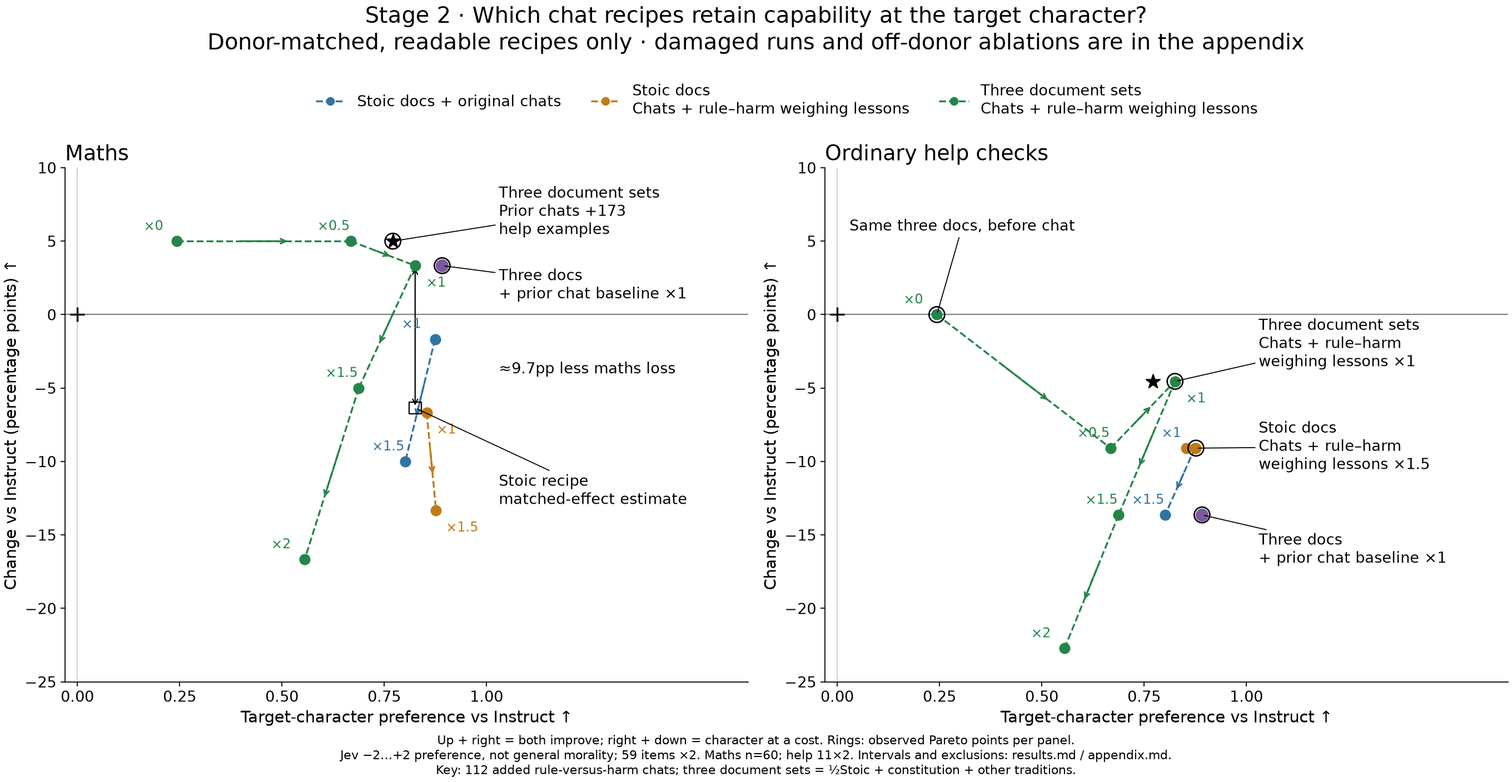
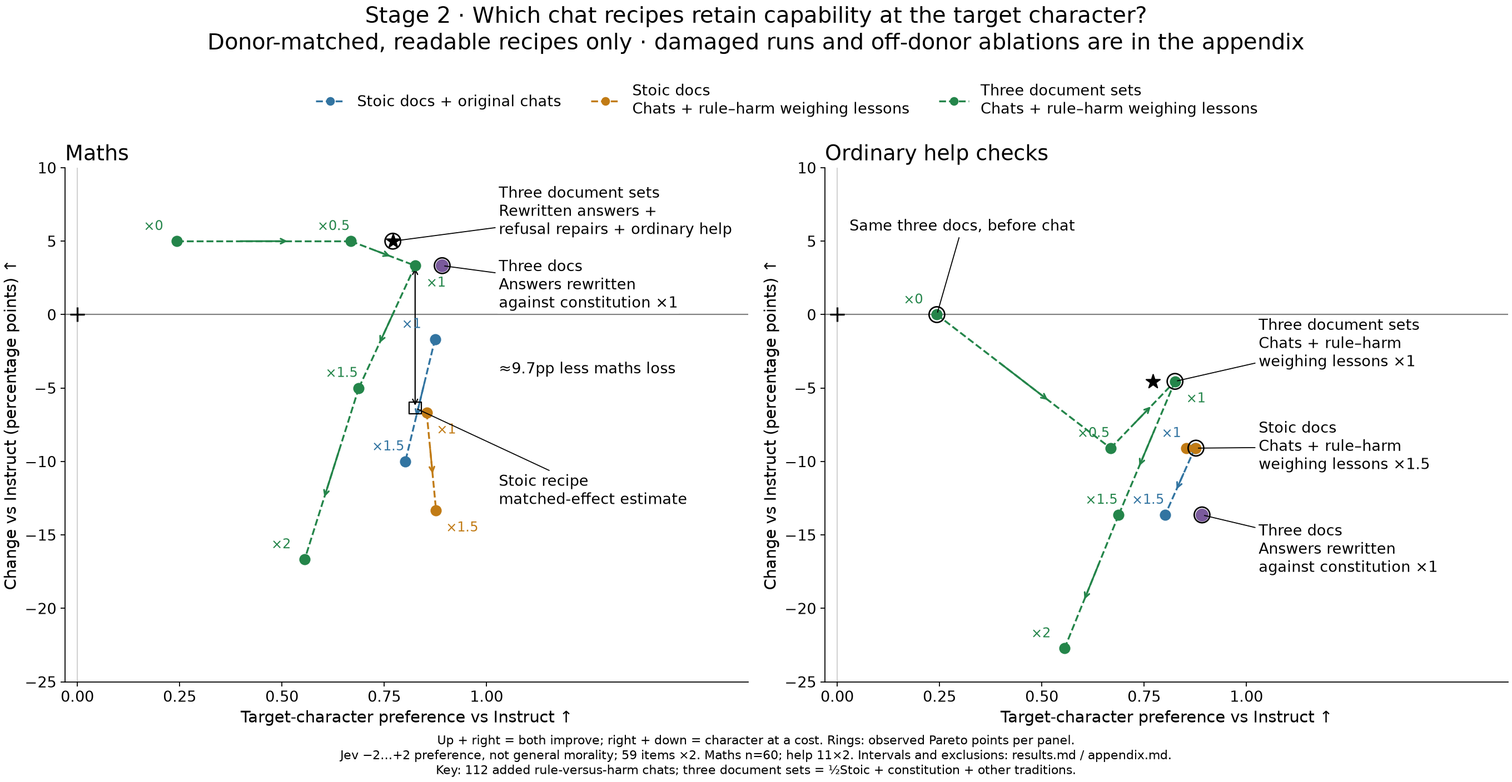
Explain constitution-guided chat rewrites and subsequent repair lineage

Changed region(s): [[0.2812, 0.25, 0.4688, 0.4062], [0.8125, 0.6562, 0.9375, 0.75]]

diff --git a/scripts/eval/character_tradeoff.py b/scripts/eval/character_tradeoff.py
@@ -135,7 +135,8 @@ def load_points(root: Path):
                  "slop/eval/run11/solo_document_table.md",
                  "slop/eval/run11/chatr13/comparison_summary.json",
                  "slop/eval/run11/chatr13/paired_vs_chatr12.md",
-                 "docs/results/20261022_run10.md", "docs/results/20261025_document_and_anchored_grafts.md"):
+                 "docs/results/20261022_run10.md", "docs/results/20261025_document_and_anchored_grafts.md",
+                 "slop/reviews/20261023_rewrite_full/result.md", "slop/audits/20261025_chatr13_learning.md"):
         source(root / name)
     configs = sorted((p for run in (8, 10, 11)
                       for p in (root / f"slop/eval/run{run}").glob("**/cfg_r10_*.yml")
@@ -405,8 +406,8 @@ def load_documents(root, character_points, provenance):
 
 
 CHAT_NAMES = {"chat12": "Original chats", "chatp12": "Chats + rule–harm weighing lessons",
-              "cx_chatp12": "Chats + rule–harm weighing lessons", "cx_chatr12": "Prior chats",
-              "x11_chatr13": "Prior chats +173 help examples", "chatgen12": "Chats + general-instruction mix"}
+              "cx_chatp12": "Chats + rule–harm weighing lessons", "cx_chatr12": "Answers rewritten against constitution",
+              "x11_chatr13": "Rewritten answers + refusal repairs + ordinary help", "chatgen12": "Chats + general-instruction mix"}
 
 
 def experiment_name(p):
@@ -591,8 +592,8 @@ def plot_final(points, paths, out):
                                  "r10_stoic0.5_const1_other1_cx_chatp121": (1.03, -2),
                                  "r10_stoic2_chatp121.5": (1.03, -9),
                                  "r10_stoic0.5_const1_other1_cx_chatr121": (1.03, -16)}}
-        names = {"r10_stoic0.5_const1_other1_x11_chatr131": "Three document sets\nPrior chats +173\nhelp examples",
-                 "r10_stoic0.5_const1_other1_cx_chatr121": "Three docs\n+ prior chat baseline ×1",
+        names = {"r10_stoic0.5_const1_other1_x11_chatr131": "Three document sets\nRewritten answers +\nrefusal repairs + ordinary help",
+                 "r10_stoic0.5_const1_other1_cx_chatr121": "Three docs\nAnswers rewritten\nagainst constitution ×1",
                  "r10_stoic0.5_const1_other1": "Same three docs, before chat",
                  "r10_stoic0.5_const1_other1_cx_chatp121": "Three document sets\nChats + rule–harm\nweighing lessons ×1",
                  "r10_stoic2_chatp121.5": "Stoic docs\nChats + rule–harm\nweighing lessons ×1.5"}
@@ -768,14 +769,22 @@ A numerical matched-moral-intensity advantage is not identified by these ABX cur
 
 The main view compares readable **full recipes at the same document doses used during chat training**. It retains coherent doses whose scores get worse.
 Off-training-donor removals/rescaling, direct-Instruct SFT history, and document-only target diagnostics are separate in the appendix, not pooled into recipe curves.
-The prior-baseline chat ×1.5 point is moved to the coherence-damaged appendix: 15 loops/26 cutoffs and 20/118 character pairs penalized as broken, versus 2 at ×1. This is not a claim that every reply collapsed.
+The constitution-rewritten answers at chat ×1.5 are moved to the coherence-damaged appendix: 15 loops/26 cutoffs and 20/118 character pairs penalized as broken, versus 2 at ×1. This is not a claim that every reply collapsed.
 Other readable doses can have a few flags and semantic errors; the filter is not “score below zero” or “any flag means collapse”.
 
 ![Target character and capability](tradeoff_main.png)
 
 Three docs = Stoic ×½ + constitution ×1 + other traditions ×1. Stoic-only = Stoic ×2.
-“Chats + rule–harm weighing lessons” means prior chat data plus 112 added rule-versus-harm chats; each chat adapter trains on its own Base donor and is grafted onto Instruct.
-The prior chat baseline is the alternative historical chat training; “Prior chats +173 help examples” adds plain help and 38 revisions to that baseline.
+Each chat adapter trains on its own Base donor and is grafted onto Instruct. The names describe what changed in its training answers, not just a dataset version.
+
+### How the conversations changed, and why
+
+1. **Original constitutional conversations:** teach Musonius's constitutional reasoning and behaviour through dialogue. These are the starting chat examples, not a new document corpus. [Run-10 chat-data history](../../../docs/results/20261022_run10.md).
+2. **112 added rule-versus-harm conversations:** practise weighing a rule against a harm of stated size, rather than treating either as automatically decisive. This is “Chats + rule–harm weighing lessons”. There was **no demonstrated character gain** from this addition on the Stoic donor (+0.87→+0.85 with overlapping intervals). [Purpose and comparison](../../../docs/results/20261022_run10.md).
+3. **895 answers rewritten against the constitution:** align existing answers' reasons and conduct with the constitution; reviews also checked reasons–act mismatch and asking instead of doing. This is the +0.89 point, labelled “Answers rewritten against constitution”; it is not the original conversations. The same-three-document comparison is +0.07 [−0.04,+0.16], so improvement from rewriting is **uncertain**, not an established successful ingredient. [Primary rewrite record](../../../slop/reviews/20261023_rewrite_full/result.md) · [Frozen comparison](../run10/stage7/paired_vs_chatp12.md).
+4. **Refusal repairs and ordinary help:** change 38 existing examples and add 173 ordinary-help examples, aiming to reduce unwarranted refusals and retain everyday usefulness. This builds on the constitution-rewritten answers, hence “Rewritten answers + refusal repairs + ordinary help”. There is **no demonstrated character gain** from the final revision (−0.12 [−0.27,+0.01]); more sampled loops/cutoffs accompany it. [Learning/data audit](../../../slop/audits/20261025_chatr13_learning.md).
+
+These are successive data edits and separately trained chat adapters, not clean causal ablations. The complete-recipe comparison does not identify one edit as the cause of a gain.
 Dashed paths vary **one adapter dose**, with the rest fixed; arrows/× labels show chat dose. Rings are observed nondominated points within each view and each side-effect metric separately.
 
 Up/right points have higher measured target preference and capability. Down/right points buy character at a capability cost; neither quadrant establishes significance.
@@ -788,7 +797,7 @@ Its measured chat ×0→1 segment predicts {53 - .6 * est['maths_loss_pp']:.2f}/
 Power sensitivity (½,1,2 on this segment) gives {min(sensitivity):.1f}–{max(sensitivity):.1f}pp; ordinary loss improves {est['ordinary_loss_pp'] - c['ordinary_loss_pp']:.1f}pp.
 The square is an estimate, not another experiment. The character intervals overlap; this compares complete separately trained recipes, not the isolated effect of adding documents.
 Use pp here because the three-doc maths result is above baseline. On the same Stoic donor, old chat matched to revised-chat intensity predicts {old_at_new:.1f}pp loss versus {b['maths_loss_pp']:.1f}pp observed: about {matched['same_donor_old_vs_new_chat']['loss_reduction_percent']:.0f}% reduced loss, defined as (revised loss − matched old loss)/revised loss (about 5.1pp), not percent above a frontier.
-The newest help-augmented chat is not a demonstrated character improvement: new−old −0.12 [−0.27,+0.01], with more sampled loops/cutoffs.
+The refusal-repaired, help-augmented rewritten answers are not a demonstrated character improvement over the constitution-rewritten answers, as the lineage comparison above makes explicit.
 
 ## Separate auxiliary experiments: subtraction and instruction mixing
 

diff --git a/tests/regression/test_character_tradeoff.py b/tests/regression/test_character_tradeoff.py
@@ -102,6 +102,8 @@ class CharacterTradeoffTest(unittest.TestCase):
         off_donor = by["r10_const1_cx_chatr121"]
         name = tradeoff.experiment_name(off_donor)
         self.assertIn("Constitution docs ×1", name)
+        self.assertIn("Answers rewritten against constitution", name)
+        self.assertNotIn("Prior chats", name)
         self.assertNotIn("Stoic docs", name)
         self.assertNotIn("Other-tradition docs", name)
         self.assertEqual(tradeoff.chat_training_donor(off_donor), "Base + ½Stoic + constitution + other traditions")
@@ -111,6 +113,8 @@ class CharacterTradeoffTest(unittest.TestCase):
         control_only = by["r10_stoic0.5_const1_other1_cx_chatctl1"]
         self.assertIn("Reply control ×1", tradeoff.experiment_name(control_only))
         self.assertNotIn("before chat", tradeoff.experiment_name(control_only))
+        helped = by["r10_stoic0.5_const1_other1_x11_chatr131"]
+        self.assertIn("Rewritten answers + refusal repairs + ordinary help", tradeoff.experiment_name(helped))
 
 
 if __name__ == "__main__":

diff --git a/slop/eval/character_tradeoff/appendix.md b/slop/eval/character_tradeoff/appendix.md
@@ -38,14 +38,14 @@ Scopes: primary = readable donor-matched character recipes; auxiliary = separate
 
 | Experiment                                                                                                                                                                                                  | Target character    | Maths /60   | Help /22   | Language / loops / cutoffs   | View           | Reason                                                                                                                                          | Chat training donor (not graft composition)     | Exact identifier                                          |
 |:------------------------------------------------------------------------------------------------------------------------------------------------------------------------------------------------------------|:--------------------|:------------|:-----------|:-----------------------------|:---------------|:------------------------------------------------------------------------------------------------------------------------------------------------|:------------------------------------------------|:----------------------------------------------------------|
-| [Three document sets + Prior chats (chat ×1) − Reply control ×0.5](../../../slop/eval/run10/stage12b/box_runs/r10_stoic0.5_const1_other1_cx_chatr121_cx_chatctl-0.5.done)                                   | +0.94 [+0.82,+1.06] | 53          | 20         | 0 / 0 / 0                    | auxiliary      | Reply-control experiment shown separately; full subtraction is retained despite poor scores because it is not a global coherence collapse.      | Base + ½Stoic + constitution + other traditions | `r10_stoic0.5_const1_other1_cx_chatr121_cx_chatctl-0.5`   |
+| [Three document sets + Answers rewritten against constitution (chat ×1) − Reply control ×0.5](../../../slop/eval/run10/stage12b/box_runs/r10_stoic0.5_const1_other1_cx_chatr121_cx_chatctl-0.5.done)        | +0.94 [+0.82,+1.06] | 53          | 20         | 0 / 0 / 0                    | auxiliary      | Reply-control experiment shown separately; full subtraction is retained despite poor scores because it is not a global coherence collapse.      | Base + ½Stoic + constitution + other traditions | `r10_stoic0.5_const1_other1_cx_chatr121_cx_chatctl-0.5`   |
 | [Stoic docs ×2 + Chats + general-instruction mix (chat ×1)](../../../slop/eval/run10/stage5/box_runs/r10_stoic2_chatgen121.done)                                                                            | +0.62 [+0.48,+0.76] | 29          | 13         | 0 / 0 / 0                    | auxiliary      | General-instruction mixing experiment shown separately; readable but format/capability losses retained.                                         | Base + Stoic ×2                                 | `r10_stoic2_chatgen121`                                   |
-| [Three document sets + Prior chats (chat ×1) − Reply control ×1](../../../slop/eval/run10/stage9/box_runs/r10_stoic0.5_const1_other1_cx_chatr121_cx_chatctl-1.done)                                         | +0.47 [+0.31,+0.64] | 18          | 8          | 1 / 1 / 0                    | auxiliary      | Reply-control experiment shown separately; full subtraction is retained despite poor scores because it is not a global coherence collapse.      | Base + ½Stoic + constitution + other traditions | `r10_stoic0.5_const1_other1_cx_chatr121_cx_chatctl-1`     |
-| [Three document sets + Prior chats (chat ×1.5)](../../../slop/eval/run10/stage7/box_runs/r10_stoic0.5_const1_other1_cx_chatr121.5.done)                                                                     | +0.42 [+0.19,+0.62] | 51          | 18         | 1 / 15 / 26                  | damaged        | Coherence-damaged boundary dose: 15 loops /26 cutoffs; 20/118 broken pairs vs 2 at chat ×1; not a whole-model collapse claim.                   | Base + ½Stoic + constitution + other traditions | `r10_stoic0.5_const1_other1_cx_chatr121.5`                |
+| [Three document sets + Answers rewritten against constitution (chat ×1) − Reply control ×1](../../../slop/eval/run10/stage9/box_runs/r10_stoic0.5_const1_other1_cx_chatr121_cx_chatctl-1.done)              | +0.47 [+0.31,+0.64] | 18          | 8          | 1 / 1 / 0                    | auxiliary      | Reply-control experiment shown separately; full subtraction is retained despite poor scores because it is not a global coherence collapse.      | Base + ½Stoic + constitution + other traditions | `r10_stoic0.5_const1_other1_cx_chatr121_cx_chatctl-1`     |
+| [Three document sets + Answers rewritten against constitution (chat ×1.5)](../../../slop/eval/run10/stage7/box_runs/r10_stoic0.5_const1_other1_cx_chatr121.5.done)                                          | +0.42 [+0.19,+0.62] | 51          | 18         | 1 / 15 / 26                  | damaged        | Coherence-damaged boundary dose: 15 loops /26 cutoffs; 20/118 broken pairs vs 2 at chat ×1; not a whole-model collapse claim.                   | Base + ½Stoic + constitution + other traditions | `r10_stoic0.5_const1_other1_cx_chatr121.5`                |
 | [Stoic docs ×2 + Chats + general-instruction mix (chat ×2.5)](../../../slop/eval/run10/stage2/box_runs/r10_stoic2_chatgen122.5.done)                                                                        | -0.39 [-0.58,-0.19] | 4           | 6          | 12 / 5 / 9                   | damaged        | Saved run10 read reports genuinely broken answers even counting boxed numbers; maths 4 (+5 boxed)/60.                                           | Base + Stoic ×2                                 | `r10_stoic2_chatgen122.5`                                 |
-| [Three document sets + Prior chats (chat ×1.5) − Reply control ×1.5](../../../slop/eval/run10/stage9/box_runs/r10_stoic0.5_const1_other1_cx_chatr121.5_cx_chatctl-1.5.done)                                 | -1.18 [-1.37,-0.98] | 17          | 8          | 3 / 71 / 80                  | damaged        | 71 loops /80 cutoffs; saved read labels broken; 58/118 broken character pairs.                                                                  | Base + ½Stoic + constitution + other traditions | `r10_stoic0.5_const1_other1_cx_chatr121.5_cx_chatctl-1.5` |
+| [Three document sets + Answers rewritten against constitution (chat ×1.5) − Reply control ×1.5](../../../slop/eval/run10/stage9/box_runs/r10_stoic0.5_const1_other1_cx_chatr121.5_cx_chatctl-1.5.done)      | -1.18 [-1.37,-0.98] | 17          | 8          | 3 / 71 / 80                  | damaged        | 71 loops /80 cutoffs; saved read labels broken; 58/118 broken character pairs.                                                                  | Base + ½Stoic + constitution + other traditions | `r10_stoic0.5_const1_other1_cx_chatr121.5_cx_chatctl-1.5` |
 | [Chat only: Original chats (chat ×2.5)](../../../slop/eval/run10/stage2/box_runs/r10_chat122.5.done)                                                                                                        | -1.62 [-1.80,-1.42] | 22          | 9          | 1 / 142 / 161                | damaged        | 142 loops /161 cutoffs; 99/118 broken character pairs.                                                                                          | Base + Stoic ×2                                 | `r10_chat122.5`                                           |
-| [Three document sets + Prior chats (chat ×2) − Reply control ×2](../../../slop/eval/run10/stage9/box_runs/r10_stoic0.5_const1_other1_cx_chatr122_cx_chatctl-2.done)                                         | -1.65 [-1.78,-1.51] | 1           | 2          | 9 / 81 / 93                  | damaged        | 81 loops /93 cutoffs and repeated nonanswers; 64/118 broken character pairs.                                                                    | Base + ½Stoic + constitution + other traditions | `r10_stoic0.5_const1_other1_cx_chatr122_cx_chatctl-2`     |
+| [Three document sets + Answers rewritten against constitution (chat ×2) − Reply control ×2](../../../slop/eval/run10/stage9/box_runs/r10_stoic0.5_const1_other1_cx_chatr122_cx_chatctl-2.done)              | -1.65 [-1.78,-1.51] | 1           | 2          | 9 / 81 / 93                  | damaged        | 81 loops /93 cutoffs and repeated nonanswers; 64/118 broken character pairs.                                                                    | Base + ½Stoic + constitution + other traditions | `r10_stoic0.5_const1_other1_cx_chatr122_cx_chatctl-2`     |
 | [Three document sets + Reply control ×1](../../../slop/eval/run10/stage12b/box_runs/r10_stoic0.5_const1_other1_cx_chatctl1.done)                                                                            | -1.67 [-1.80,-1.54] | 51          | 20         | 4 / 64 / 186                 | damaged        | 64 loops /186 cutoffs; 97/118 broken character pairs.                                                                                           | Base + ½Stoic + constitution + other traditions | `r10_stoic0.5_const1_other1_cx_chatctl1`                  |
 | [Stoic docs ×2 + Original chats (chat ×2.5)](../../../slop/eval/run10/stage2/box_runs/r10_stoic2_chat122.5.done)                                                                                            | -1.68 [-1.85,-1.49] | 15          | 5          | 2 / 143 / 168                | damaged        | 143 loop /168 cutoff flags; 104/118 character pairs carry the frozen broken-reply penalty.                                                      | Base + Stoic ×2                                 | `r10_stoic2_chat122.5`                                    |
 | [Stoic docs ×2 + Original chats (chat ×4)](../../../slop/eval/run10/stage2/box_runs/r10_stoic2_chat124.done)                                                                                                | -1.99 [-2.00,-1.98] | 0           | 2          | 2 / 210 / 214                | damaged        | 210 loops; all 214 turns truncate; 116/118 broken character pairs.                                                                              | Base + Stoic ×2                                 | `r10_stoic2_chat124`                                      |
@@ -68,27 +68,27 @@ Scopes: primary = readable donor-matched character recipes; auxiliary = separate
 | [Stoic docs ×0.5 + Constitution docs ×1 + Other-tradition docs ×2 + Chats + rule–harm weighing lessons (chat ×1)](../../../slop/eval/run10/stage8/box_runs/r10_stoic0.5_const1_other2_cx_chatp121.done)     | +0.82 [+0.70,+0.94] | 54          | 21         | 0 / 0 / 2                    | off-donor      | Document doses/removals differ from the donor used to train this fixed chat adapter; graft-time ablation, not an independent recipe dose curve. | Base + ½Stoic + constitution + other traditions | `r10_stoic0.5_const1_other2_cx_chatp121`                  |
 | [Stoic docs ×0.5 + Constitution docs ×1 + Chats + rule–harm weighing lessons (chat ×1)](../../../slop/eval/run10/stage6/box_runs/r10_stoic0.5_const1_cx_chatp121.done)                                      | +0.82 [+0.70,+0.93] | 55          | 21         | 0 / 1 / 1                    | off-donor      | Document doses/removals differ from the donor used to train this fixed chat adapter; graft-time ablation, not an independent recipe dose curve. | Base + ½Stoic + constitution + other traditions | `r10_stoic0.5_const1_cx_chatp121`                         |
 | [Constitution docs ×1 + Other-tradition docs ×1 + Chats + rule–harm weighing lessons (chat ×1)](../../../slop/eval/run10/stage6/box_runs/r10_const1_other1_cx_chatp121.done)                                | +0.79 [+0.67,+0.91] | 54          | 21         | 0 / 1 / 1                    | off-donor      | Document doses/removals differ from the donor used to train this fixed chat adapter; graft-time ablation, not an independent recipe dose curve. | Base + ½Stoic + constitution + other traditions | `r10_const1_other1_cx_chatp121`                           |
-| [Constitution docs ×1.5 + Prior chats (chat ×1)](../../../slop/eval/run10/stage10/box_runs/r10_const1.5_cx_chatr121.done)                                                                                   | +0.79 [+0.59,+0.98] | 53          | 21         | 1 / 5 / 14                   | off-donor      | Document doses/removals differ from the donor used to train this fixed chat adapter; graft-time ablation, not an independent recipe dose curve. | Base + ½Stoic + constitution + other traditions | `r10_const1.5_cx_chatr121`                                |
+| [Constitution docs ×1.5 + Answers rewritten against constitution (chat ×1)](../../../slop/eval/run10/stage10/box_runs/r10_const1.5_cx_chatr121.done)                                                        | +0.79 [+0.59,+0.98] | 53          | 21         | 1 / 5 / 14                   | off-donor      | Document doses/removals differ from the donor used to train this fixed chat adapter; graft-time ablation, not an independent recipe dose curve. | Base + ½Stoic + constitution + other traditions | `r10_const1.5_cx_chatr121`                                |
 | [Chat only: Chats + rule–harm weighing lessons (chat ×1)](../../../slop/eval/run10/stage4/box_runs/r10_chatp121.done)                                                                                       | +0.79 [+0.66,+0.91] | 54          | 20         | 0 / 2 / 2                    | off-donor      | Document doses/removals differ from the donor used to train this fixed chat adapter; graft-time ablation, not an independent recipe dose curve. | Base + Stoic ×2                                 | `r10_chatp121`                                            |
 | [Stoic docs ×0.5 + Constitution docs ×1 + Other-tradition docs ×0.5 + Chats + rule–harm weighing lessons (chat ×1)](../../../slop/eval/run10/stage8/box_runs/r10_stoic0.5_const1_other0.5_cx_chatp121.done) | +0.78 [+0.65,+0.91] | 56          | 21         | 0 / 0 / 1                    | off-donor      | Document doses/removals differ from the donor used to train this fixed chat adapter; graft-time ablation, not an independent recipe dose curve. | Base + ½Stoic + constitution + other traditions | `r10_stoic0.5_const1_other0.5_cx_chatp121`                |
-| [Constitution docs ×1 + Prior chats (chat ×1)](../../../slop/eval/run10/stage10/box_runs/r10_const1_cx_chatr121.done)                                                                                       | +0.74 [+0.59,+0.88] | 57          | 20         | 0 / 5 / 9                    | off-donor      | Document doses/removals differ from the donor used to train this fixed chat adapter; graft-time ablation, not an independent recipe dose curve. | Base + ½Stoic + constitution + other traditions | `r10_const1_cx_chatr121`                                  |
+| [Constitution docs ×1 + Answers rewritten against constitution (chat ×1)](../../../slop/eval/run10/stage10/box_runs/r10_const1_cx_chatr121.done)                                                            | +0.74 [+0.59,+0.88] | 57          | 20         | 0 / 5 / 9                    | off-donor      | Document doses/removals differ from the donor used to train this fixed chat adapter; graft-time ablation, not an independent recipe dose curve. | Base + ½Stoic + constitution + other traditions | `r10_const1_cx_chatr121`                                  |
 | [Stoic docs ×2 + Constitution docs ×1 + Other-tradition docs ×1 + Chats + rule–harm weighing lessons (chat ×1)](../../../slop/eval/run10/stage8/box_runs/r10_stoic2_const1_other1_cx_chatp121.done)         | +0.64 [+0.45,+0.82] | 53          | 21         | 9 / 0 / 1                    | off-donor      | Document doses/removals differ from the donor used to train this fixed chat adapter; graft-time ablation, not an independent recipe dose curve. | Base + ½Stoic + constitution + other traditions | `r10_stoic2_const1_other1_cx_chatp121`                    |
 | [Stoic docs ×0.5 + Constitution docs ×0.5 + Other-tradition docs ×1 + Chats + rule–harm weighing lessons (chat ×1)](../../../slop/eval/run10/stage8/box_runs/r10_stoic0.5_const0.5_other1_cx_chatp121.done) | +0.58 [+0.45,+0.70] | 53          | 21         | 0 / 0 / 0                    | off-donor      | Document doses/removals differ from the donor used to train this fixed chat adapter; graft-time ablation, not an independent recipe dose curve. | Base + ½Stoic + constitution + other traditions | `r10_stoic0.5_const0.5_other1_cx_chatp121`                |
-| [Chat only: Prior chats (chat ×1) − Reply control ×1](../../../slop/eval/run10/stage9/box_runs/r10_cx_chatr121_cx_chatctl-1.done)                                                                           | +0.46 [+0.32,+0.61] | 42          | 20         | 0 / 0 / 0                    | off-donor      | Document doses/removals differ from the donor used to train this fixed chat adapter; graft-time ablation, not an independent recipe dose curve. | Base + ½Stoic + constitution + other traditions | `r10_cx_chatr121_cx_chatctl-1`                            |
-| [Stoic docs ×2 + Prior chats (chat ×1)](../../../slop/eval/run10/stage11/box_runs/r10_stoic2_cx_chatr121.done)                                                                                              | +0.46 [+0.31,+0.61] | 58          | 19         | 0 / 4 / 9                    | off-donor      | Document doses/removals differ from the donor used to train this fixed chat adapter; graft-time ablation, not an independent recipe dose curve. | Base + ½Stoic + constitution + other traditions | `r10_stoic2_cx_chatr121`                                  |
+| [Chat only: Answers rewritten against constitution (chat ×1) − Reply control ×1](../../../slop/eval/run10/stage9/box_runs/r10_cx_chatr121_cx_chatctl-1.done)                                                | +0.46 [+0.32,+0.61] | 42          | 20         | 0 / 0 / 0                    | off-donor      | Document doses/removals differ from the donor used to train this fixed chat adapter; graft-time ablation, not an independent recipe dose curve. | Base + ½Stoic + constitution + other traditions | `r10_cx_chatr121_cx_chatctl-1`                            |
+| [Stoic docs ×2 + Answers rewritten against constitution (chat ×1)](../../../slop/eval/run10/stage11/box_runs/r10_stoic2_cx_chatr121.done)                                                                   | +0.46 [+0.31,+0.61] | 58          | 19         | 0 / 4 / 9                    | off-donor      | Document doses/removals differ from the donor used to train this fixed chat adapter; graft-time ablation, not an independent recipe dose curve. | Base + ½Stoic + constitution + other traditions | `r10_stoic2_cx_chatr121`                                  |
 | [Stoic docs ×0.5 + Other-tradition docs ×1 + Chats + rule–harm weighing lessons (chat ×1)](../../../slop/eval/run10/stage6/box_runs/r10_stoic0.5_other1_cx_chatp121.done)                                   | +0.37 [+0.26,+0.48] | 55          | 20         | 1 / 0 / 2                    | off-donor      | Document doses/removals differ from the donor used to train this fixed chat adapter; graft-time ablation, not an independent recipe dose curve. | Base + ½Stoic + constitution + other traditions | `r10_stoic0.5_other1_cx_chatp121`                         |
-| [Stoic docs ×1 + Prior chats (chat ×1)](../../../slop/eval/run10/stage11/box_runs/r10_stoic1_cx_chatr121.done)                                                                                              | +0.33 [+0.17,+0.48] | 56          | 19         | 0 / 11 / 11                  | off-donor      | Document doses/removals differ from the donor used to train this fixed chat adapter; graft-time ablation, not an independent recipe dose curve. | Base + ½Stoic + constitution + other traditions | `r10_stoic1_cx_chatr121`                                  |
+| [Stoic docs ×1 + Answers rewritten against constitution (chat ×1)](../../../slop/eval/run10/stage11/box_runs/r10_stoic1_cx_chatr121.done)                                                                   | +0.33 [+0.17,+0.48] | 56          | 19         | 0 / 11 / 11                  | off-donor      | Document doses/removals differ from the donor used to train this fixed chat adapter; graft-time ablation, not an independent recipe dose curve. | Base + ½Stoic + constitution + other traditions | `r10_stoic1_cx_chatr121`                                  |
 | [Chat only: Chats + rule–harm weighing lessons (chat ×1)](../../../slop/eval/run10/stage6/box_runs/r10_cx_chatp121.done)                                                                                    | +0.25 [+0.11,+0.39] | 56          | 19         | 1 / 4 / 5                    | off-donor      | Document doses/removals differ from the donor used to train this fixed chat adapter; graft-time ablation, not an independent recipe dose curve. | Base + ½Stoic + constitution + other traditions | `r10_cx_chatp121`                                         |
-| [Chat only: Prior chats (chat ×1)](../../../slop/eval/run10/stage7/box_runs/r10_cx_chatr121.done)                                                                                                           | +0.21 [+0.02,+0.39] | 56          | 19         | 0 / 13 / 14                  | off-donor      | Document doses/removals differ from the donor used to train this fixed chat adapter; graft-time ablation, not an independent recipe dose curve. | Base + ½Stoic + constitution + other traditions | `r10_cx_chatr121`                                         |
-| [Constitution docs ×1 + Prior chats (chat ×1.5)](../../../slop/eval/run10/stage11/box_runs/r10_const1_cx_chatr121.5.done)                                                                                   | +0.15 [-0.06,+0.36] | 52          | 19         | 0 / 28 / 41                  | off-donor      | Document doses/removals differ from the donor used to train this fixed chat adapter; graft-time ablation, not an independent recipe dose curve. | Base + ½Stoic + constitution + other traditions | `r10_const1_cx_chatr121.5`                                |
-| [Constitution docs ×2 + Prior chats (chat ×1)](../../../slop/eval/run10/stage11/box_runs/r10_const2_cx_chatr121.done)                                                                                       | +0.09 [-0.20,+0.38] | 48          | 21         | 0 / 17 / 64                  | off-donor      | Document doses/removals differ from the donor used to train this fixed chat adapter; graft-time ablation, not an independent recipe dose curve. | Base + ½Stoic + constitution + other traditions | `r10_const2_cx_chatr121`                                  |
-| [Three document sets + Prior chats (chat ×1)](../../../slop/eval/run10/stage7/box_runs/r10_stoic0.5_const1_other1_cx_chatr121.done)                                                                         | +0.89 [+0.76,+1.02] | 55          | 19         | 0 / 0 / 2                    | primary        | Donor-matched final recipe; readable overall, not error-free. Coherent lower-scoring doses remain.                                              | Base + ½Stoic + constitution + other traditions | `r10_stoic0.5_const1_other1_cx_chatr121`                  |
+| [Chat only: Answers rewritten against constitution (chat ×1)](../../../slop/eval/run10/stage7/box_runs/r10_cx_chatr121.done)                                                                                | +0.21 [+0.02,+0.39] | 56          | 19         | 0 / 13 / 14                  | off-donor      | Document doses/removals differ from the donor used to train this fixed chat adapter; graft-time ablation, not an independent recipe dose curve. | Base + ½Stoic + constitution + other traditions | `r10_cx_chatr121`                                         |
+| [Constitution docs ×1 + Answers rewritten against constitution (chat ×1.5)](../../../slop/eval/run10/stage11/box_runs/r10_const1_cx_chatr121.5.done)                                                        | +0.15 [-0.06,+0.36] | 52          | 19         | 0 / 28 / 41                  | off-donor      | Document doses/removals differ from the donor used to train this fixed chat adapter; graft-time ablation, not an independent recipe dose curve. | Base + ½Stoic + constitution + other traditions | `r10_const1_cx_chatr121.5`                                |
+| [Constitution docs ×2 + Answers rewritten against constitution (chat ×1)](../../../slop/eval/run10/stage11/box_runs/r10_const2_cx_chatr121.done)                                                            | +0.09 [-0.20,+0.38] | 48          | 21         | 0 / 17 / 64                  | off-donor      | Document doses/removals differ from the donor used to train this fixed chat adapter; graft-time ablation, not an independent recipe dose curve. | Base + ½Stoic + constitution + other traditions | `r10_const2_cx_chatr121`                                  |
+| [Three document sets + Answers rewritten against constitution (chat ×1)](../../../slop/eval/run10/stage7/box_runs/r10_stoic0.5_const1_other1_cx_chatr121.done)                                              | +0.89 [+0.76,+1.02] | 55          | 19         | 0 / 0 / 2                    | primary        | Donor-matched final recipe; readable overall, not error-free. Coherent lower-scoring doses remain.                                              | Base + ½Stoic + constitution + other traditions | `r10_stoic0.5_const1_other1_cx_chatr121`                  |
 | [Stoic docs ×2 + Chats + rule–harm weighing lessons (chat ×1.5)](../../../slop/eval/run10/stage4/box_runs/r10_stoic2_chatp121.5.done)                                                                       | +0.88 [+0.74,+1.01] | 45          | 20         | 0 / 3 / 4                    | primary        | Donor-matched final recipe; readable overall, not error-free. Coherent lower-scoring doses remain.                                              | Base + Stoic ×2                                 | `r10_stoic2_chatp121.5`                                   |
 | [Stoic docs ×2 + Original chats (chat ×1)](../../../slop/eval/run10/stage2/box_runs/r10_stoic2_chat121.done)                                                                                                | +0.87 [+0.76,+0.99] | 52          | 20         | 0 / 0 / 0                    | primary        | Donor-matched final recipe; readable overall, not error-free. Coherent lower-scoring doses remain.                                              | Base + Stoic ×2                                 | `r10_stoic2_chat121`                                      |
 | [Stoic docs ×2 + Chats + rule–harm weighing lessons (chat ×1)](../../../slop/eval/run10/stage4/box_runs/r10_stoic2_chatp121.done)                                                                           | +0.85 [+0.73,+0.98] | 49          | 20         | 0 / 0 / 1                    | primary        | Donor-matched final recipe; readable overall, not error-free. Coherent lower-scoring doses remain.                                              | Base + Stoic ×2                                 | `r10_stoic2_chatp121`                                     |
 | [Three document sets + Chats + rule–harm weighing lessons (chat ×1)](../../../slop/eval/run10/stage5/box_runs/r10_stoic0.5_const1_other1_cx_chatp121.done)                                                  | +0.83 [+0.71,+0.95] | 55          | 21         | 0 / 0 / 0                    | primary        | Donor-matched final recipe; readable overall, not error-free. Coherent lower-scoring doses remain.                                              | Base + ½Stoic + constitution + other traditions | `r10_stoic0.5_const1_other1_cx_chatp121`                  |
 | [Stoic docs ×2 + Original chats (chat ×1.5)](../../../slop/eval/run10/stage4/box_runs/r10_stoic2_chat121.5.done)                                                                                            | +0.80 [+0.64,+0.96] | 47          | 19         | 0 / 6 / 8                    | primary        | Donor-matched final recipe; readable overall, not error-free. Coherent lower-scoring doses remain.                                              | Base + Stoic ×2                                 | `r10_stoic2_chat121.5`                                    |
-| [Three document sets + Prior chats +173 help examples (chat ×1)](../../../slop/eval/run11/lease1/box_runs/r10_stoic0.5_const1_other1_x11_chatr131.done)                                                     | +0.77 [+0.61,+0.93] | 56          | 21         | 1 / 4 / 9                    | primary        | Donor-matched final recipe; readable overall, not error-free. Coherent lower-scoring doses remain.                                              | Base + ½Stoic + constitution + other traditions | `r10_stoic0.5_const1_other1_x11_chatr131`                 |
+| [Three document sets + Rewritten answers + refusal repairs + ordinary help (chat ×1)](../../../slop/eval/run11/lease1/box_runs/r10_stoic0.5_const1_other1_x11_chatr131.done)                                | +0.77 [+0.61,+0.93] | 56          | 21         | 1 / 4 / 9                    | primary        | Donor-matched final recipe; readable overall, not error-free. Coherent lower-scoring doses remain.                                              | Base + ½Stoic + constitution + other traditions | `r10_stoic0.5_const1_other1_x11_chatr131`                 |
 | [Three document sets + Chats + rule–harm weighing lessons (chat ×1.5)](../../../slop/eval/run10/stage5/box_runs/r10_stoic0.5_const1_other1_cx_chatp121.5.done)                                              | +0.69 [+0.52,+0.85] | 50          | 19         | 0 / 5 / 2                    | primary        | Donor-matched final recipe; readable overall, not error-free. Coherent lower-scoring doses remain.                                              | Base + ½Stoic + constitution + other traditions | `r10_stoic0.5_const1_other1_cx_chatp121.5`                |
 | [Three document sets + Chats + rule–harm weighing lessons (chat ×0.5)](../../../slop/eval/run10/stage8/box_runs/r10_stoic0.5_const1_other1_cx_chatp120.5.done)                                              | +0.67 [+0.54,+0.79] | 56          | 20         | 0 / 0 / 0                    | primary        | Donor-matched final recipe; readable overall, not error-free. Coherent lower-scoring doses remain.                                              | Base + ½Stoic + constitution + other traditions | `r10_stoic0.5_const1_other1_cx_chatp120.5`                |
 | [Three document sets + Chats + rule–harm weighing lessons (chat ×2)](../../../slop/eval/run10/stage8/box_runs/r10_stoic0.5_const1_other1_cx_chatp122.done)                                                  | +0.56 [+0.40,+0.71] | 43          | 17         | 0 / 6 / 7                    | primary        | Donor-matched final recipe; readable overall, not error-free. Coherent lower-scoring doses remain.                                              | Base + ½Stoic + constitution + other traditions | `r10_stoic0.5_const1_other1_cx_chatp122`                  |

diff --git a/slop/eval/character_tradeoff/results.md b/slop/eval/character_tradeoff/results.md
@@ -25,14 +25,22 @@ A numerical matched-moral-intensity advantage is not identified by these ABX cur
 
 The main view compares readable **full recipes at the same document doses used during chat training**. It retains coherent doses whose scores get worse.
 Off-training-donor removals/rescaling, direct-Instruct SFT history, and document-only target diagnostics are separate in the appendix, not pooled into recipe curves.
-The prior-baseline chat ×1.5 point is moved to the coherence-damaged appendix: 15 loops/26 cutoffs and 20/118 character pairs penalized as broken, versus 2 at ×1. This is not a claim that every reply collapsed.
+The constitution-rewritten answers at chat ×1.5 are moved to the coherence-damaged appendix: 15 loops/26 cutoffs and 20/118 character pairs penalized as broken, versus 2 at ×1. This is not a claim that every reply collapsed.
 Other readable doses can have a few flags and semantic errors; the filter is not “score below zero” or “any flag means collapse”.
 
 ![Target character and capability](tradeoff_main.png)
 
 Three docs = Stoic ×½ + constitution ×1 + other traditions ×1. Stoic-only = Stoic ×2.
-“Chats + rule–harm weighing lessons” means prior chat data plus 112 added rule-versus-harm chats; each chat adapter trains on its own Base donor and is grafted onto Instruct.
-The prior chat baseline is the alternative historical chat training; “Prior chats +173 help examples” adds plain help and 38 revisions to that baseline.
+Each chat adapter trains on its own Base donor and is grafted onto Instruct. The names describe what changed in its training answers, not just a dataset version.
+
+### How the conversations changed, and why
+
+1. **Original constitutional conversations:** teach Musonius's constitutional reasoning and behaviour through dialogue. These are the starting chat examples, not a new document corpus. [Run-10 chat-data history](../../../docs/results/20261022_run10.md).
+2. **112 added rule-versus-harm conversations:** practise weighing a rule against a harm of stated size, rather than treating either as automatically decisive. This is “Chats + rule–harm weighing lessons”. There was **no demonstrated character gain** from this addition on the Stoic donor (+0.87→+0.85 with overlapping intervals). [Purpose and comparison](../../../docs/results/20261022_run10.md).
+3. **895 answers rewritten against the constitution:** align existing answers' reasons and conduct with the constitution; reviews also checked reasons–act mismatch and asking instead of doing. This is the +0.89 point, labelled “Answers rewritten against constitution”; it is not the original conversations. The same-three-document comparison is +0.07 [−0.04,+0.16], so improvement from rewriting is **uncertain**, not an established successful ingredient. [Primary rewrite record](../../../slop/reviews/20261023_rewrite_full/result.md) · [Frozen comparison](../run10/stage7/paired_vs_chatp12.md).
+4. **Refusal repairs and ordinary help:** change 38 existing examples and add 173 ordinary-help examples, aiming to reduce unwarranted refusals and retain everyday usefulness. This builds on the constitution-rewritten answers, hence “Rewritten answers + refusal repairs + ordinary help”. There is **no demonstrated character gain** from the final revision (−0.12 [−0.27,+0.01]); more sampled loops/cutoffs accompany it. [Learning/data audit](../../../slop/audits/20261025_chatr13_learning.md).
+
+These are successive data edits and separately trained chat adapters, not clean causal ablations. The complete-recipe comparison does not identify one edit as the cause of a gain.
 Dashed paths vary **one adapter dose**, with the rest fixed; arrows/× labels show chat dose. Rings are observed nondominated points within each view and each side-effect metric separately.
 
 Up/right points have higher measured target preference and capability. Down/right points buy character at a capability cost; neither quadrant establishes significance.
@@ -45,7 +53,7 @@ Its measured chat ×0→1 segment predicts 49.19/60 at exactly +0.83: approximat
 Power sensitivity (½,1,2 on this segment) gives 9.4–9.8pp; ordinary loss improves 4.4pp.
 The square is an estimate, not another experiment. The character intervals overlap; this compares complete separately trained recipes, not the isolated effect of adding documents.
 Use pp here because the three-doc maths result is above baseline. On the same Stoic donor, old chat matched to revised-chat intensity predicts 1.6pp loss versus 6.7pp observed: about 77% reduced loss, defined as (revised loss − matched old loss)/revised loss (about 5.1pp), not percent above a frontier.
-The newest help-augmented chat is not a demonstrated character improvement: new−old −0.12 [−0.27,+0.01], with more sampled loops/cutoffs.
+The refusal-repaired, help-augmented rewritten answers are not a demonstrated character improvement over the constitution-rewritten answers, as the lineage comparison above makes explicit.
 
 ## Separate auxiliary experiments: subtraction and instruction mixing
 
